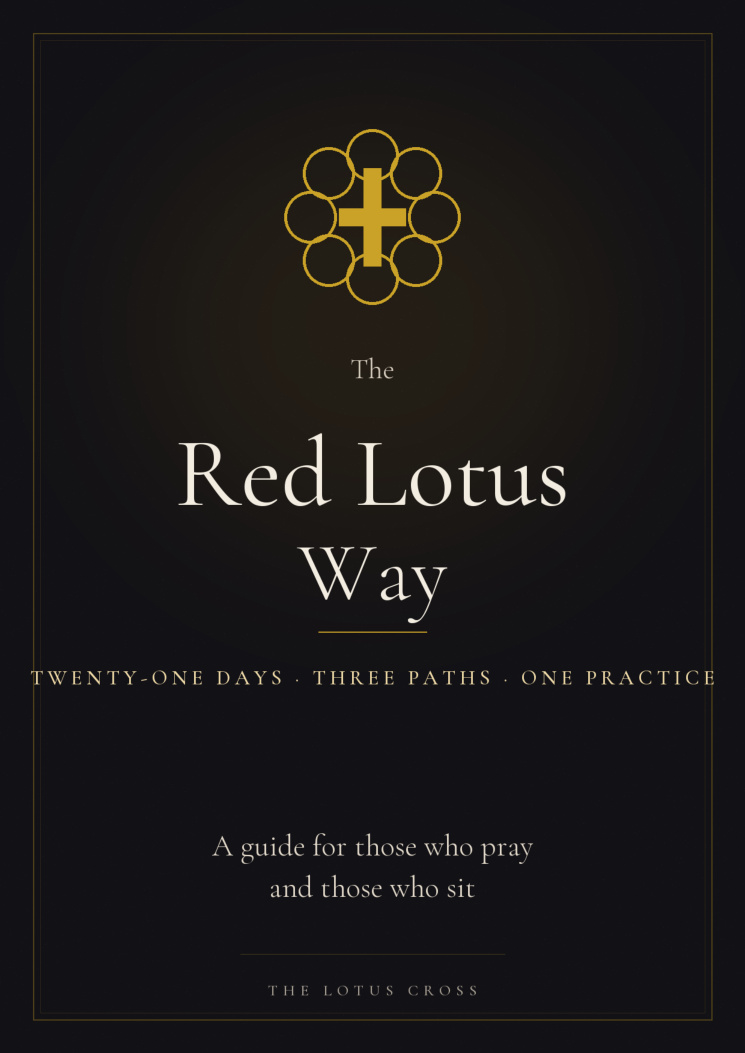
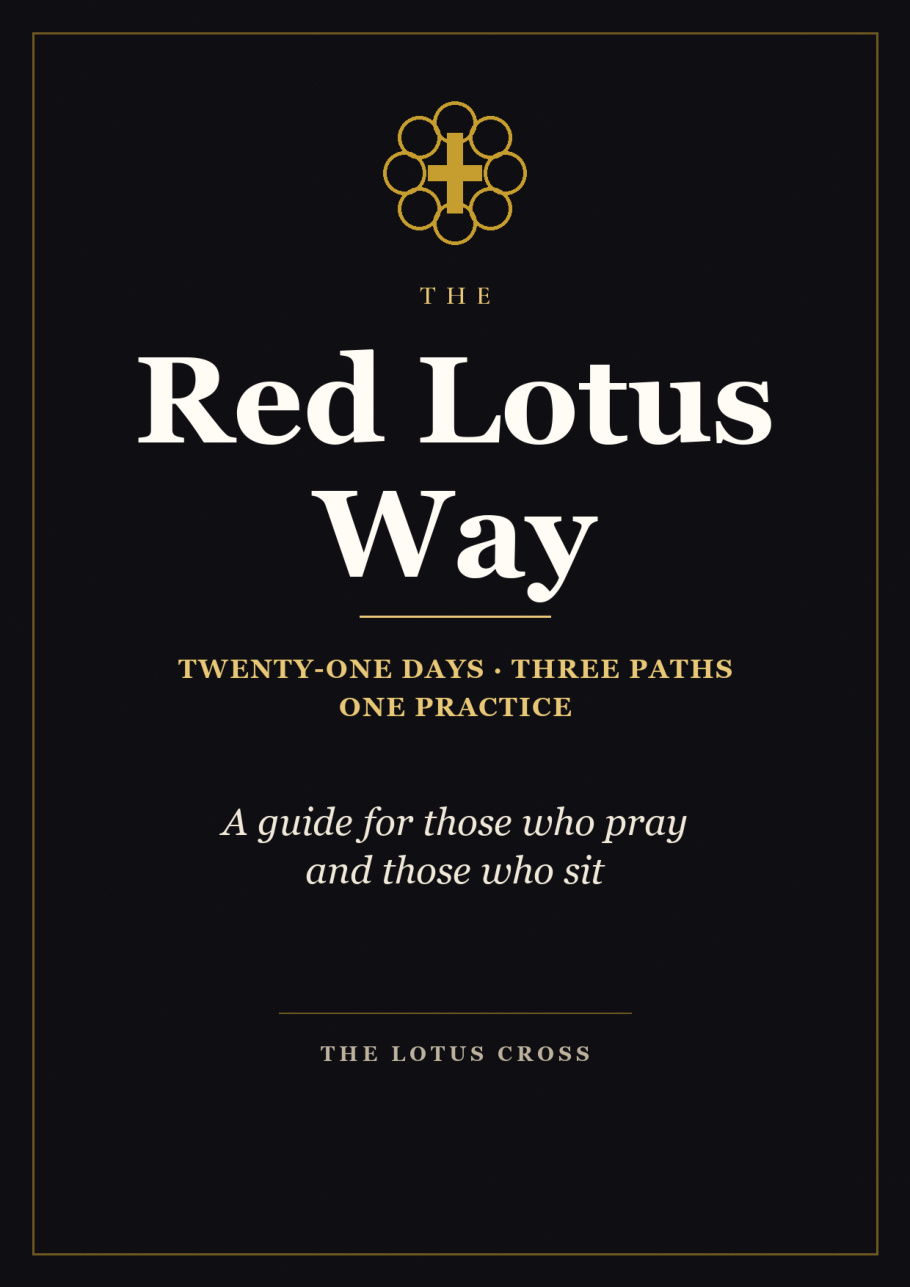
Guide cover rebuilt for legibility (bold serif title, solid white); lifetime plans

diff --git a/server.js b/server.js
@@ -142,6 +142,7 @@ async function initDb() {
   await pool.query("ALTER TABLE users ADD COLUMN IF NOT EXISTS is_demo BOOLEAN DEFAULT false");
   await pool.query("ALTER TABLE users ADD COLUMN IF NOT EXISTS tier TEXT DEFAULT 'free'");
   await pool.query("ALTER TABLE tasks ADD COLUMN IF NOT EXISTS tier_required TEXT DEFAULT 'free'");
+  await pool.query("ALTER TABLE users ADD COLUMN IF NOT EXISTS tier_lifetime BOOLEAN DEFAULT false");
   await pool.query(`CREATE TABLE IF NOT EXISTS live_sessions (
     id SERIAL PRIMARY KEY,
     title TEXT NOT NULL,
@@ -579,7 +580,7 @@ app.get('/api/member/dashboard', requireAuth, async (req, res) => {
       referral_code: u.referral_code },
     ranks: RANKS, tasks: visibleTasks, doneToday: done.rows.map(r => r.task_id), today,
     proofsToday: proofsToday, reflection: reflection, circle: circle, brought: brought, challenge: challenge,
-    tier: u.tier || 'free', tiers: TIERS, features: entitlementsFor(u)
+    tier: u.tier || 'free', tierLifetime: !!u.tier_lifetime, tiers: TIERS, features: entitlementsFor(u)
   });
 });
 
@@ -896,7 +897,7 @@ app.post('/api/admin/set-tier', requireAuth, requireAdmin, async (req, res) => {
     if (!tier) return res.status(400).json({ error: 'Unknown plan' });
     const user = (await pool.query("SELECT * FROM users WHERE id=$1", [parseInt(req.body.userId, 10)])).rows[0];
     if (!user) return res.status(404).json({ error: 'User not found' });
-    await pool.query("UPDATE users SET tier=$1 WHERE id=$2", [tier, user.id]);
+    await pool.query("UPDATE users SET tier=$1, tier_lifetime=$2 WHERE id=$3", [tier, !!req.body.lifetime, user.id]);
     await audit(req.user, 'member.tier_set', user.email, tier);
     res.json({ ok: true, tier: tier });
   } catch (e) { res.status(500).json({ error: e.message }); }

diff --git a/public/portal.html b/public/portal.html
@@ -677,6 +677,8 @@ function loadDashboard(){
       (rank.icon ? rank.icon + ' ' : '') + rank.name +
       ' · ' + (u.tasks_completed || 0) + ' practices' +
       ' · ' + (streak || 0) + '-day streak';
+    var planWord = res.d.tier === 'circle' ? 'Circle' : (res.d.tier === 'supporter' ? 'Supporter' : '');
+    if (planWord) document.getElementById('dashMeta').textContent += ' · ' + planWord + (res.d.tierLifetime ? ' for life' : '');
     var r = res.d.reflection;
     if(r){
       document.getElementById('reflTitle').textContent = r.title || 'Reflection of the Day';

diff --git a/public/sw.js b/public/sw.js
@@ -3,7 +3,7 @@
 // Strategy: network-first for pages and data (so nothing is ever stale),
 // cache-first for the shell (icons, fonts, legal pages, offline page).
 
-const VERSION = 'lotus-v6';
+const VERSION = 'lotus-v7';
 const SHELL = [
   '/offline.html',
   '/legal.css',
